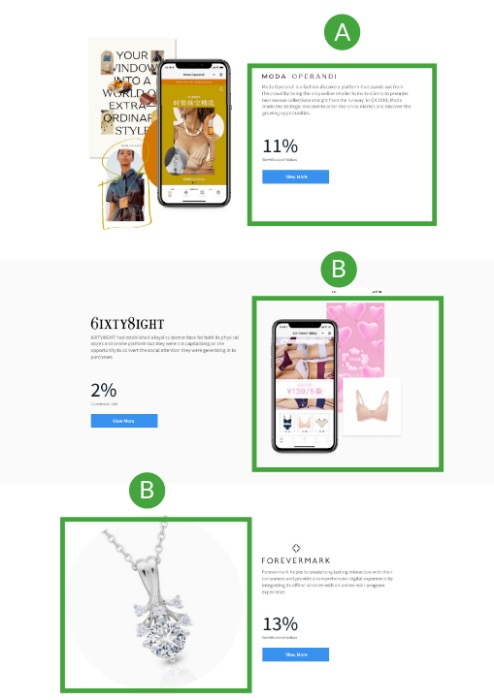
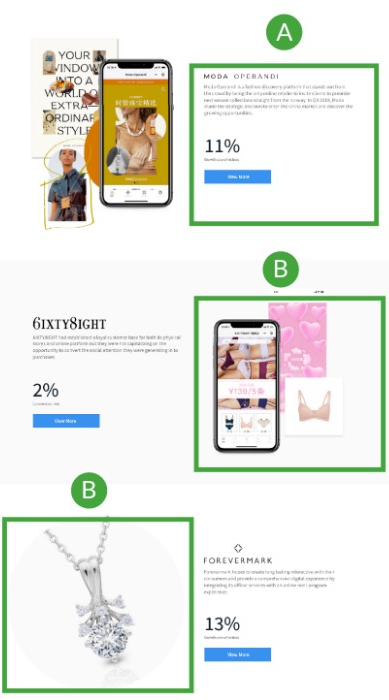
Update

diff --git a/Julianna-Yank-Portfolio/html/asap.html b/Julianna-Yank-Portfolio/html/asap.html
@@ -211,7 +211,7 @@
                             </div>
                             <div class="col-md-4 col-sm-12">
                                 <h4><strong>Colors</strong></h4>
-                                <svg width="250px" height="225px" style="background-color:#ffffff;display:block;margin:auto;" class="d-none d-md-block">
+                                <svg width="250px" height="250px" style="background-color:#ffffff;display:block;margin:auto;" class="d-none d-md-block">
                                    
                                     <rect x="48.25" y="5" rx="10" ry="10" width="40" height="65" style="fill:#0c62c3;"  class="shadow"/> 
                                     <rect x="98.25" y="5" rx="10" ry="10" width="40" height="65" style="fill:#1fb7f7;" class="shadow" />
@@ -231,20 +231,20 @@
                                     
         
                                     
-                                    <text x="5" y="135" font-family="Source Sans Pro" font-size="16" fill="#ee3c79" font-weight="bold">#EE3C79</text>
-                                    <text x="5" y="159.33" font-family="Source Sans Pro" font-size="16" fill="#ffa01e" font-weight="bold">#FFA01E</text>
-                                    <text x="5" y="183.66" font-family="Source Sans Pro" font-size="16" fill="#1fb7f7" font-weight="bold">#1FB7F7</text>
-                                    <text x="5" y="207.99" font-family="Source Sans Pro" font-size="16" fill="#0c62c3" font-weight="bold">#0C62C3</text>
+                                    <text x="5" y="140" font-family="Source Sans Pro" font-size="16" fill="#ee3c79" font-weight="bold">#EE3C79</text>
+                                    <text x="5" y="170" font-family="Source Sans Pro" font-size="16" fill="#ffa01e" font-weight="bold">#FFA01E</text>
+                                    <text x="5" y="200" font-family="Source Sans Pro" font-size="16" fill="#1fb7f7" font-weight="bold">#1FB7F7</text>
+                                    <text x="5" y="230" font-family="Source Sans Pro" font-size="16" fill="#0c62c3" font-weight="bold">#0C62C3</text>
                                     
-                                    <text x="75" y="135" font-family="Source Sans Pro" font-size="16" fill="#F26091" font-weight="bold">#F26091</text>
-                                    <text x="75" y="159.33" font-family="Source Sans Pro" font-size="16" fill="#FFB400" font-weight="bold">#FFB400</text>
-                                    <text x="75" y="183.66" font-family="Source Sans Pro" font-size="16" fill="#00C9E1" font-weight="bold">#00C9E1</text>
-                                    <text x="75" y="207.99" font-family="Source Sans Pro" font-size="16" fill="#1286E8" font-weight="bold">#1286E8</text>
+                                    <text x="85" y="140" font-family="Source Sans Pro" font-size="16" fill="#F26091" font-weight="bold">#F26091</text>
+                                    <text x="85" y="170" font-family="Source Sans Pro" font-size="16" fill="#FFB400" font-weight="bold">#FFB400</text>
+                                    <text x="85" y="200" font-family="Source Sans Pro" font-size="16" fill="#00C9E1" font-weight="bold">#00C9E1</text>
+                                    <text x="85" y="230" font-family="Source Sans Pro" font-size="16" fill="#1286E8" font-weight="bold">#1286E8</text>
                                     
-                                    <text x="145" y="135" font-family="Source Sans Pro" font-size="16" fill="#FF7EAB" font-weight="bold">#FF7EAB</text>
-                                    <text x="145" y="159.33" font-family="Source Sans Pro" font-size="16" fill="#FFC610" font-weight="bold">#FFC610</text>
-                                    <text x="145" y="183.66" font-family="Source Sans Pro" font-size="16" fill="#34D8D9" font-weight="bold">#34D8D9</text>
-                                    <text x="145" y="207.99" font-family="Source Sans Pro" font-size="16" fill="#6EB0FF" font-weight="bold">#6EB0FF</text>
+                                    <text x="165" y="140" font-family="Source Sans Pro" font-size="16" fill="#FF7EAB" font-weight="bold">#FF7EAB</text>
+                                    <text x="165" y="170" font-family="Source Sans Pro" font-size="16" fill="#FFC610" font-weight="bold">#FFC610</text>
+                                    <text x="165" y="200" font-family="Source Sans Pro" font-size="16" fill="#34D8D9" font-weight="bold">#34D8D9</text>
+                                    <text x="165" y="230" font-family="Source Sans Pro" font-size="16" fill="#6EB0FF" font-weight="bold">#6EB0FF</text>
                                 </svg>
                                 
                                 <svg width="400px" height="125px" style="background-color:#ffffff;" class="d-md-none">

diff --git a/Julianna-Yank-Portfolio/html/letzb.html b/Julianna-Yank-Portfolio/html/letzb.html
@@ -534,7 +534,7 @@
                             <div class="row text-center">
                             <div class="col-md-3 col-sm-12">
                                 <h4><strong>Logo</strong></h4>
-                                <img src="../img/letzb/branding-logo-1.png" alt="Several Iterations of the MetricZoom Logo." class="img-responsive" style="padding-bottom:20px;width:80%;" />   
+                                <img src="../img/letzb/branding-logo-1.png" alt="Several Iterations of the MetricZoom Logo." class="img-responsive" style="padding-bottom:20px;margin-bottom:25px;width:80%;" />   
                                 <img src="../img/letzb/branding-logo-2.png" alt="Several Iterations of the MetricZoom Logo." class="img-responsive" style="padding-bottom:20px;width:80%;"/>      
                             </div>
                             <div class="col-md-3 col-sm-12">
@@ -557,15 +557,15 @@
                                     <rect x="105" y="25" rx="5" ry="5" width="30" height="55" style="fill:#f4eff3;"  class="shadow"/> 
                                     <rect x="140" y="25" rx="5" ry="5" width="30" height="55" style="fill:#f6f6f6;"  class="shadow"/> 
                                     
-                                    <text x="17.5" y="100" font-family="Source Sans Pro" font-size="16" fill="#EDDCFF" font-weight="bold">#EDDCFF</text>
-                                    <text x="17.5" y="120" font-family="Source Sans Pro" font-size="16" fill="#99A7EC" font-weight="bold">#99A7EC</text>
-                                    <text x="17.5" y="140" font-family="Source Sans Pro" font-size="16" fill="#ACB0EF" font-weight="bold">#ACB0EF</text>
-                                    <text x="17.5" y="160" font-family="Source Sans Pro" font-size="16" fill="#EDE7F5" font-weight="bold">#EDE7F5</text>
+                                    <text x="10" y="105" font-family="Source Sans Pro" font-size="16" fill="#EDDCFF" font-weight="bold">#EDDCFF</text>
+                                    <text x="10" y="135" font-family="Source Sans Pro" font-size="16" fill="#99A7EC" font-weight="bold">#99A7EC</text>
+                                    <text x="10" y="165" font-family="Source Sans Pro" font-size="16" fill="#ACB0EF" font-weight="bold">#ACB0EF</text>
+                                    <text x="10" y="195" font-family="Source Sans Pro" font-size="16" fill="#EDE7F5" font-weight="bold">#EDE7F5</text>
                                     
-                                    <text x="100" y="100" font-family="Source Sans Pro" font-size="16" fill="#A7006D" font-weight="bold">#A7006D</text>
-                                    <text x="100" y="120" font-family="Source Sans Pro" font-size="16" fill="#EBE2E8" font-weight="bold">#EBE2E8</text>
-                                    <text x="100" y="140" font-family="Source Sans Pro" font-size="16" fill="#FCF7FA" font-weight="bold">#FCF7FA</text>
-                                    <text x="100" y="160" font-family="Source Sans Pro" font-size="16" fill="#F4F7F9" font-weight="bold">#F4F7F9</text>
+                                    <text x="110" y="105" font-family="Source Sans Pro" font-size="16" fill="#A7006D" font-weight="bold">#A7006D</text>
+                                    <text x="110" y="135" font-family="Source Sans Pro" font-size="16" fill="#EBE2E8" font-weight="bold">#EBE2E8</text>
+                                    <text x="110" y="165" font-family="Source Sans Pro" font-size="16" fill="#FCF7FA" font-weight="bold">#FCF7FA</text>
+                                    <text x="110" y="195" font-family="Source Sans Pro" font-size="16" fill="#F4F7F9" font-weight="bold">#F4F7F9</text>
                                 </svg>
                                 
                                 <svg width="350px" height="100px" style="background-color:#ffffff;" class="d-md-none">

diff --git a/Julianna-Yank-Portfolio/html/radiate.html b/Julianna-Yank-Portfolio/html/radiate.html
@@ -175,12 +175,12 @@
                             </div>
                             <div class="col-md-3 col-sm-12">
                                 <h4><strong>Colors</strong></h4>
-                                <svg width="151px" height="225px" style="background-color:#ffffff;display:block;margin:auto;" class="d-none d-md-block">
+                                <svg width="151px" height="300px" style="background-color:#ffffff;display:block;margin:auto;" class="d-none d-md-block">
                                                                  
                                     
                                    <rect x="5" y="25" rx="10" ry="10" width="45" height="80" style="fill:#47b04b;" class="shadow" />
                                    <rect x="28.5" y="5" rx="10" ry="10" width="45" height="80" style="fill:#ff3b80;" class="shadow"/>
-                                   <rect x="55" y="25" rx="10" ry="10" width="45" height="80" style="fill:#ffed18;" class="shadow" />
+                                   <rect x="55" y="25" rx="10" ry="10" width="45" height="80" style="fill:#ffed18;"9class="shadow" />
                                    <rect x="78.5" y="5" rx="10" ry="10" width="45" height="80" style="fill:#00a7f7;" class="shadow"/>
                                    <rect x="105" y="25" rx="10" ry="10" width="45" height="80" style="fill:#000000;"  class="shadow"/>
                                    
@@ -188,11 +188,11 @@
                                         
                                     
                                     
-                                    <text x="50" y="135" font-family="Source Sans Pro" font-size="16" fill="#47B04B" font-weight="bold">#47B04B</text>
-                                    <text x="50" y="156" font-family="Source Sans Pro" font-size="16" fill="#FF3B80" font-weight="bold">#FF3B80</text>
-                                    <text x="50" y="177" font-family="Source Sans Pro" font-size="16" fill="#FFED18" font-weight="bold">#FFED18</text>
-                                    <text x="50" y="198" font-family="Source Sans Pro" font-size="16" fill="#00A7F7" font-weight="bold">#00A7F7</text>
-                                    <text x="50" y="219" font-family="Source Sans Pro" font-size="16" fill="#000000" font-weight="bold">#000000</text>
+                                    <text x="5" y="145" font-family="Source Sans Pro" font-size="16" fill="#47B04B" font-weight="bold">#47B04B</text>
+                                    <text x="5" y="175" font-family="Source Sans Pro" font-size="16" fill="#FF3B80" font-weight="bold">#FF3B80</text>
+                                    <text x="5" y="205" font-family="Source Sans Pro" font-size="16" fill="#FFED18" font-weight="bold">#FFED18</text>
+                                    <text x="95" y="145" font-family="Source Sans Pro" font-size="16" fill="#00A7F7" font-weight="bold">#00A7F7</text>
+                                    <text x="95" y="175" font-family="Source Sans Pro" font-size="16" fill="#000000" font-weight="bold">#000000</text>
                                 </svg>
                                 
                                 <svg width="240px" height="125px" style="background-color:#ffffff;" class="d-md-none">

diff --git a/Julianna-Yank-Portfolio/html/metriczoom.html b/Julianna-Yank-Portfolio/html/metriczoom.html
@@ -155,7 +155,7 @@
                             </div>
                             <div class="col-md-3 col-sm-12">
                                 <h4><strong>Colors</strong></h4>
-                                <svg width="150px" height="225px" style="background-color:#ffffff;display:block;margin:auto;" class="d-none d-md-block">
+                                <svg width="150px" height="250px" style="background-color:#ffffff;display:block;margin:auto;" class="d-none d-md-block">
                                                                  
                                     
                                    <rect x="5" y="45" rx="5" ry="5" width="30" height="65" style="fill:#06b6ef;" class="shadow"/>
@@ -171,14 +171,14 @@
                                     
                                      
                                     
-                                    <text x="10" y="130" font-family="Source Sans Pro" font-size="16" fill="#6ec31e" font-weight="bold">#6EC31E</text>
-                                    <text x="10" y="150" font-family="Source Sans Pro" font-size="16" fill="#F60020" font-weight="bold">#F60020</text>
-                                    <text x="10" y="170" font-family="Source Sans Pro" font-size="16" fill="#0063A0" font-weight="bold">#0063A0</text>
-                                    <text x="10" y="190" font-family="Source Sans Pro" font-size="16" fill="#06B6EF" font-weight="bold">#06B6EF</text>
+                                    <text x="5" y="140" font-family="Source Sans Pro" font-size="16" fill="#6ec31e" font-weight="bold">#6EC31E</text>
+                                    <text x="5" y="170" font-family="Source Sans Pro" font-size="16" fill="#F60020" font-weight="bold">#F60020</text>
+                                    <text x="5" y="200" font-family="Source Sans Pro" font-size="16" fill="#0063A0" font-weight="bold">#0063A0</text>
+                                    <text x="5" y="230" font-family="Source Sans Pro" font-size="16" fill="#06B6EF" font-weight="bold">#06B6EF</text>
                                     
-                                    <text x="80" y="130" font-family="Source Sans Pro" font-size="16" fill="#FFC001" font-weight="bold">#FFC001</text>
-                                    <text x="80" y="150" font-family="Source Sans Pro" font-size="16" fill="#dbd7d7" font-weight="bold">#DBD7D7</text>
-                                    <text x="80" y="170" font-family="Source Sans Pro" font-size="16" fill="#000000" font-weight="bold">#000000</text>
+                                    <text x="90" y="140" font-family="Source Sans Pro" font-size="16" fill="#FFC001" font-weight="bold">#FFC001</text>
+                                    <text x="90" y="170" font-family="Source Sans Pro" font-size="16" fill="#dbd7d7" font-weight="bold">#DBD7D7</text>
+                                    <text x="90" y="200" font-family="Source Sans Pro" font-size="16" fill="#000000" font-weight="bold">#000000</text>
                                 </svg>
                                 
                                 <svg width="345px" height="125px" style="background-color:#ffffff;" class="d-md-none">

diff --git a/Julianna-Yank-Portfolio/index.html b/Julianna-Yank-Portfolio/index.html
@@ -28,7 +28,7 @@
                         </button>
                         <div class="collapse navbar-collapse" id="navbarNavAltMarkup">
                             <div class="navbar-nav ml-auto">
-                                <a class="nav-item nav-link" href="index.html">WORK</a>
+                                <a class="nav-item nav-link active" href="index.html">WORK</a>
                                 <a class="nav-item nav-link d-none d-md-block" href="html/about.html">ABOUT ME</a>
                                 <a class="nav-item nav-link d-md-none" href="html/about.html">ABOUT</a>
                                 <a class="nav-item nav-link" href="html/resume.html" target="_blank">RESUME</a>

diff --git a/Julianna-Yank-Portfolio/css/yank.css b/Julianna-Yank-Portfolio/css/yank.css
@@ -17,7 +17,7 @@ body {
 }
 
 h1, h2, h3, h4, h5, h6, p, li, div {
-    padding-bottom:5px;
+    padding-bottom:12.5px;
 }
 
 
@@ -25,6 +25,10 @@ h1, h2, h3, h4, h5, h6, p, li, div {
     transform: scale(1.25);
     transform: rotate(360deg);
     transition: 1.5s;
+}
+
+.active {
+    font-weight: bold;
 }
 /*img:hover{
     transform:scale(1.25);
